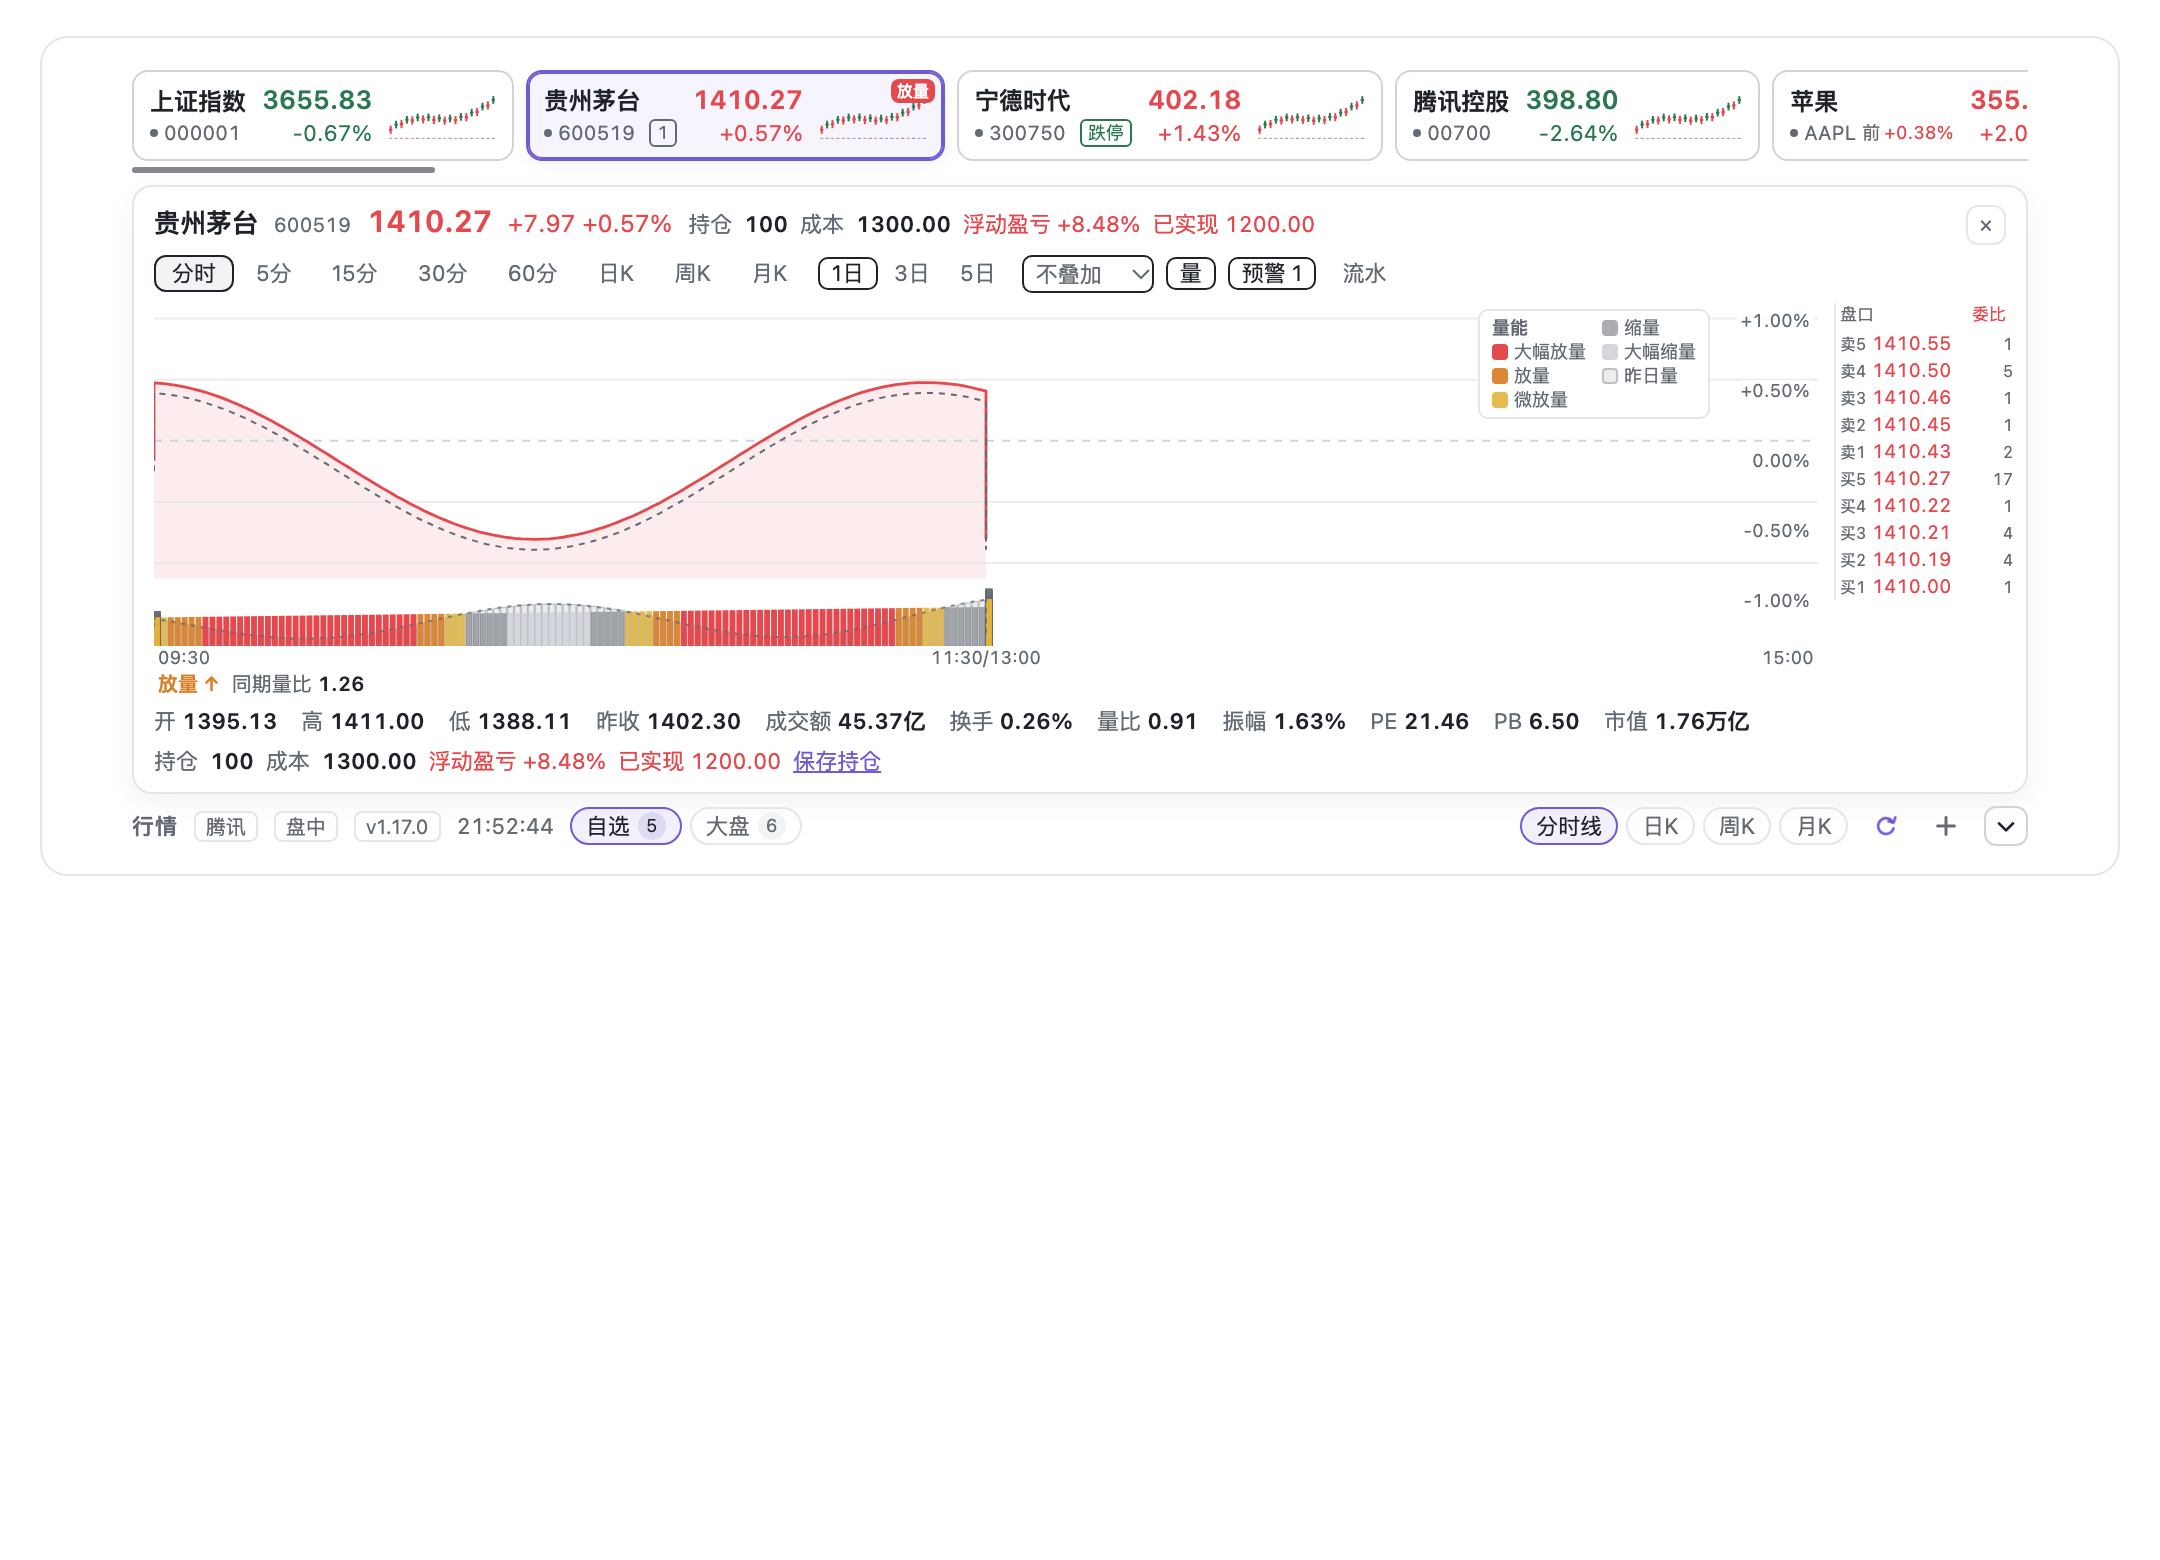
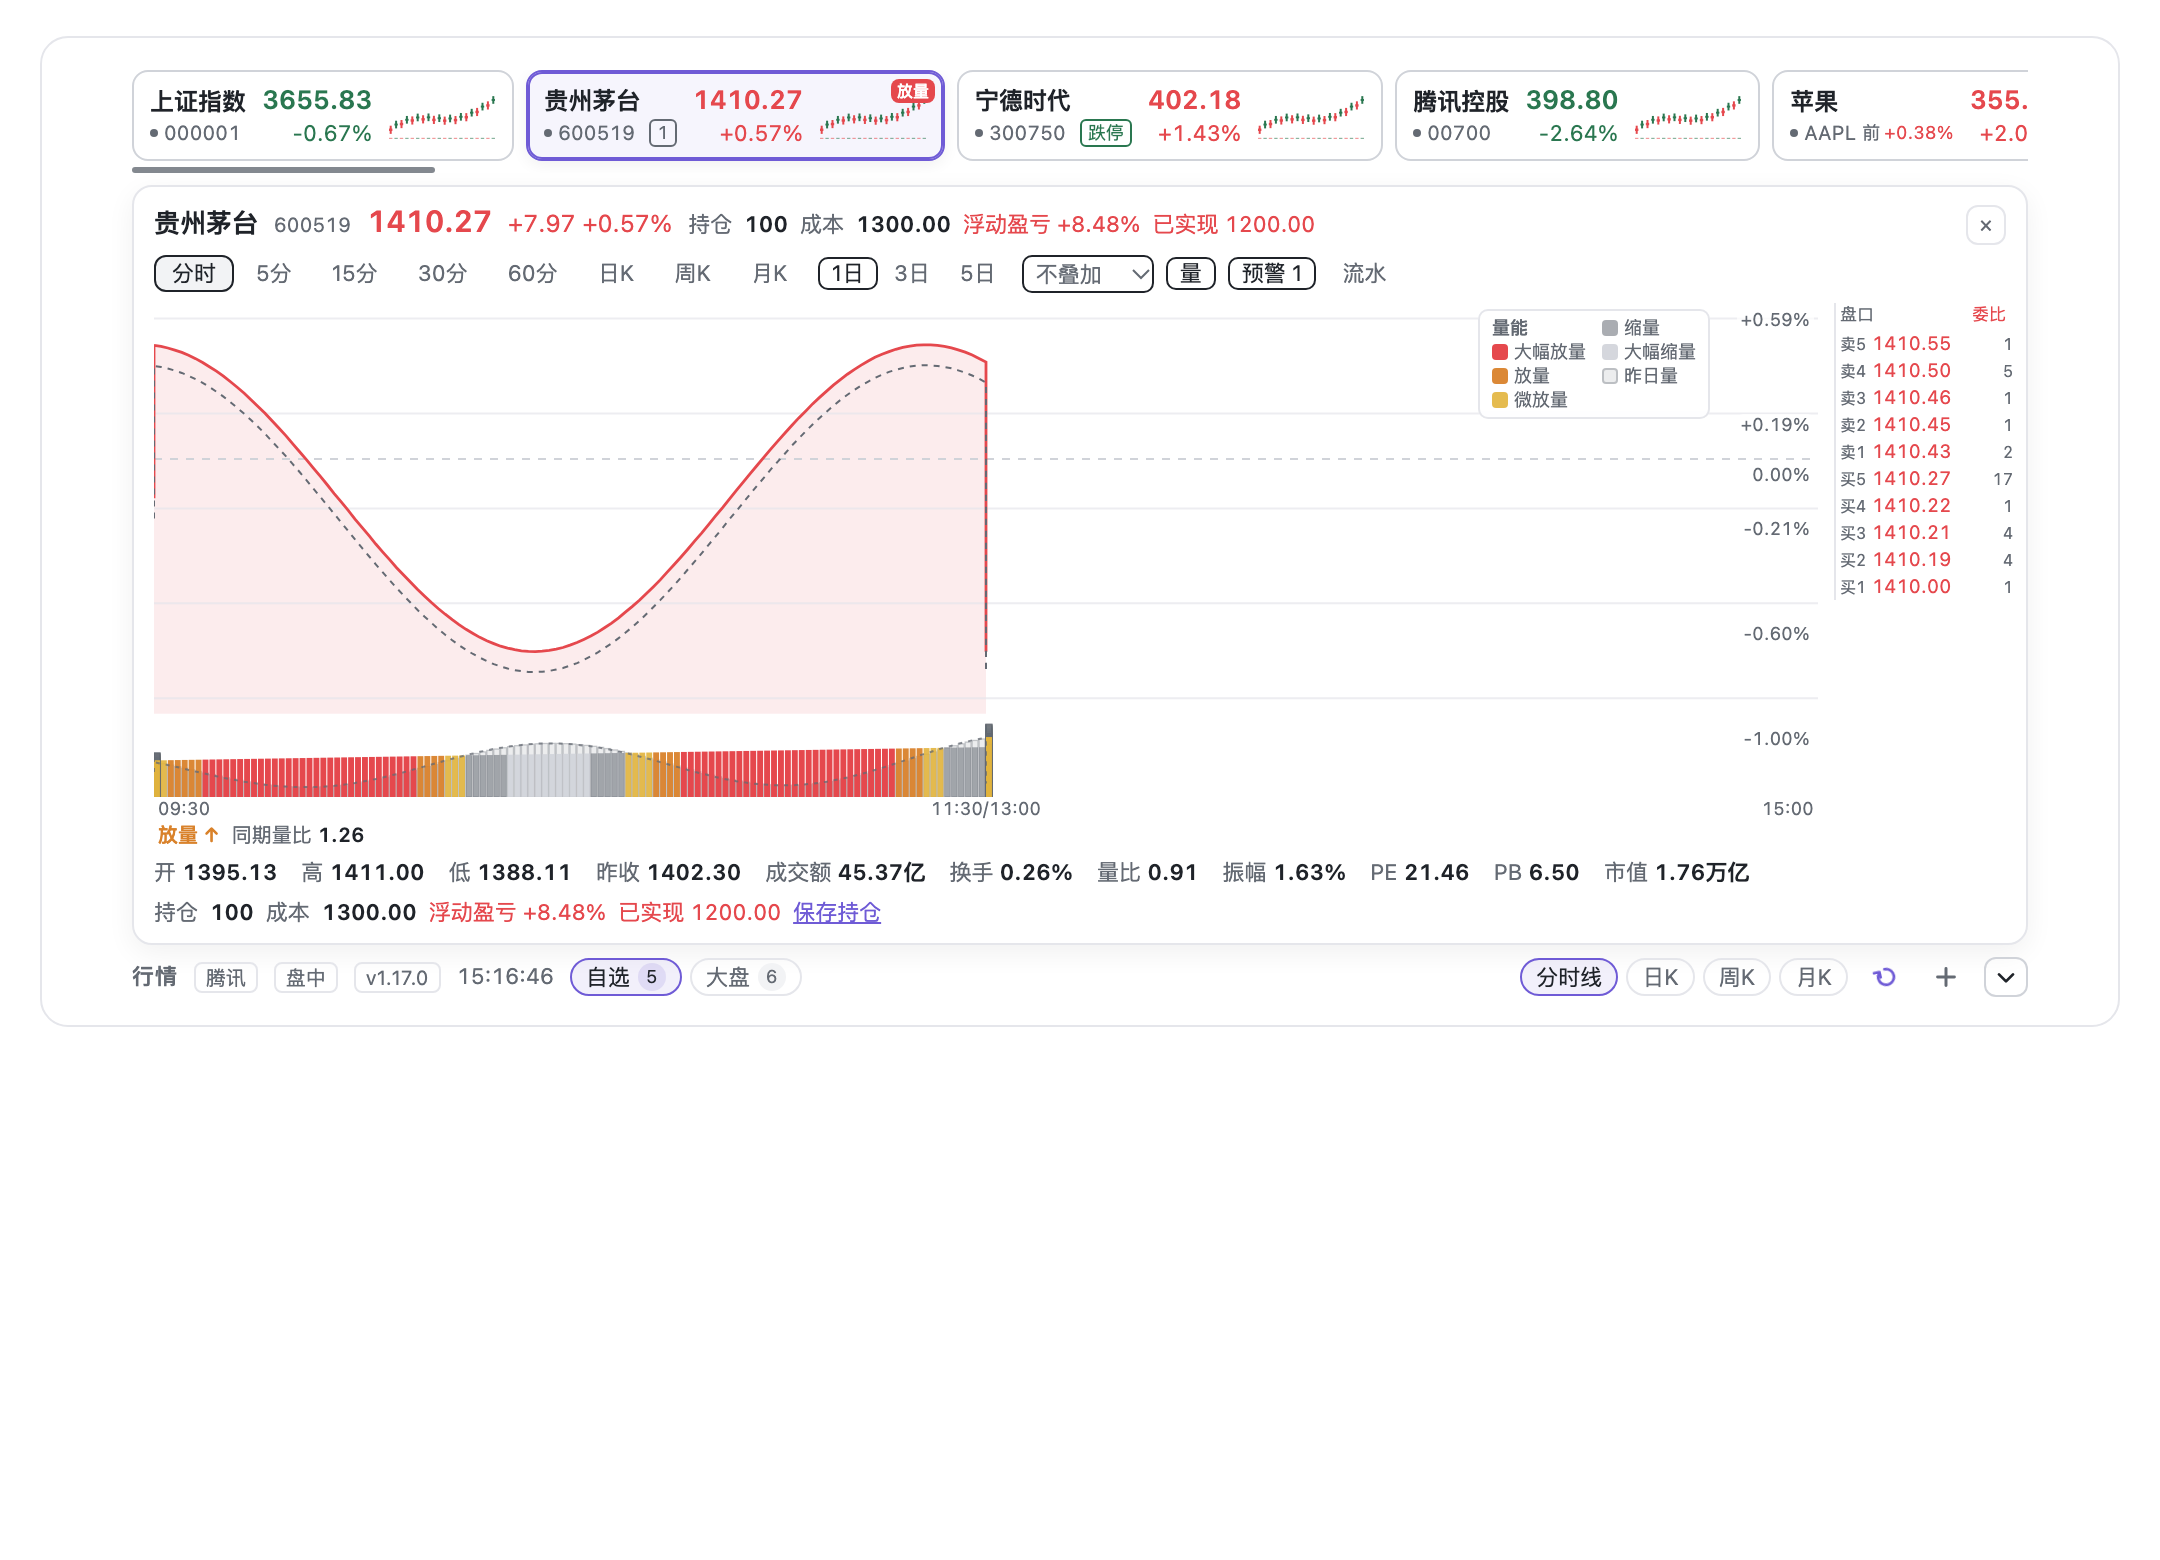
fix: scale the intraday axis to the actual session high and low

diff --git a/client.js b/client.js
@@ -3686,42 +3686,51 @@ window.__ModuleLoader__.load({
       if (points.length < 2) {
         return h('div', { className: 'dshst-chartEmpty', style: { width: '100%', height: `${height}px` }, title: props.emptyLabel ?? '' })
       }
-      // Domestic intraday charts centre the price axis on the previous close:
-      // the top and bottom are the same percentage away, so a line above the
-      // dashed zero line is immediately "up" and below is "down". A cost line
-      // must never stretch this axis; it would flatten the whole session.
+      // Intraday charts use the actual session high/low rather than a forced
+      // symmetric band. If the day only falls to -1%, the lower edge is about
+      // -1.2%, not -7% merely because the upper side moved 6%.
       let min
       let max
       let yTicks = []
       if (prevClose !== null && prevClose > 0) {
-        let maxAbsPct = 0
+        let lowPct = Number.POSITIVE_INFINITY
+        let highPct = Number.NEGATIVE_INFINITY
         for (const point of points) {
           for (const value of [point.price, point.avg]) {
             if (typeof value !== 'number' || !Number.isFinite(value)) continue
-            const pct = Math.abs(((value - prevClose) / prevClose) * 100)
-            if (pct > maxAbsPct) maxAbsPct = pct
+            const pct = ((value - prevClose) / prevClose) * 100
+            if (pct < lowPct) lowPct = pct
+            if (pct > highPct) highPct = pct
           }
         }
-        // The comparison line is expressed against its own previous close. A
-        // symbol that moved further than the current one must still be visible,
-        // otherwise the axis clips the overlay entirely.
         const comparison = props.compare
         if (comparison && typeof comparison.prevClose === 'number' && comparison.prevClose > 0) {
           for (const point of comparison.points ?? []) {
             if (typeof point.price !== 'number') continue
-            const pct = Math.abs(((point.price - comparison.prevClose) / comparison.prevClose) * 100)
-            if (pct > maxAbsPct) maxAbsPct = pct
+            const pct = ((point.price - comparison.prevClose) / comparison.prevClose) * 100
+            if (pct < lowPct) lowPct = pct
+            if (pct > highPct) highPct = pct
           }
         }
-        // Keep 8% headroom and round up to a half-point so the labels read like
-        // +3.00% / -3.00% rather than an arbitrary maximum.
-        const boundPct = Math.ceil(Math.max(0.5, maxAbsPct * 1.08) / 0.5) * 0.5
-        min = prevClose * (1 - boundPct / 100)
-        max = prevClose * (1 + boundPct / 100)
-        yTicks = [1, 0.5, 0, -0.5, -1].map((fraction) => ({
-          value: prevClose * (1 + (boundPct * fraction) / 100),
-          pct: boundPct * fraction,
-        }))
+        if (!Number.isFinite(lowPct) || !Number.isFinite(highPct)) {
+          lowPct = -0.5
+          highPct = 0.5
+        }
+        const span = Math.max(0.5, highPct - lowPct)
+        const pad = Math.max(0.1, span * 0.08)
+        lowPct -= pad
+        highPct += pad
+        // Keep the previous-close reference line in view; it is the zero axis
+        // users read against, and the padding above already leaves breathing room.
+        lowPct = Math.min(0, lowPct)
+        highPct = Math.max(0, highPct)
+        min = prevClose * (1 + lowPct / 100)
+        max = prevClose * (1 + highPct / 100)
+        const step = (highPct - lowPct) / 4
+        const pctTicks = Array.from({ length: 5 }, (_, index) => highPct - step * index)
+        if (lowPct <= 0 && highPct >= 0 && !pctTicks.some((pct) => Math.abs(pct) < 0.05)) pctTicks.push(0)
+        pctTicks.sort((left, right) => right - left)
+        yTicks = pctTicks.map((pct) => ({ value: prevClose * (1 + pct / 100), pct }))
       } else {
         let low = Number.POSITIVE_INFINITY
         let high = Number.NEGATIVE_INFINITY
